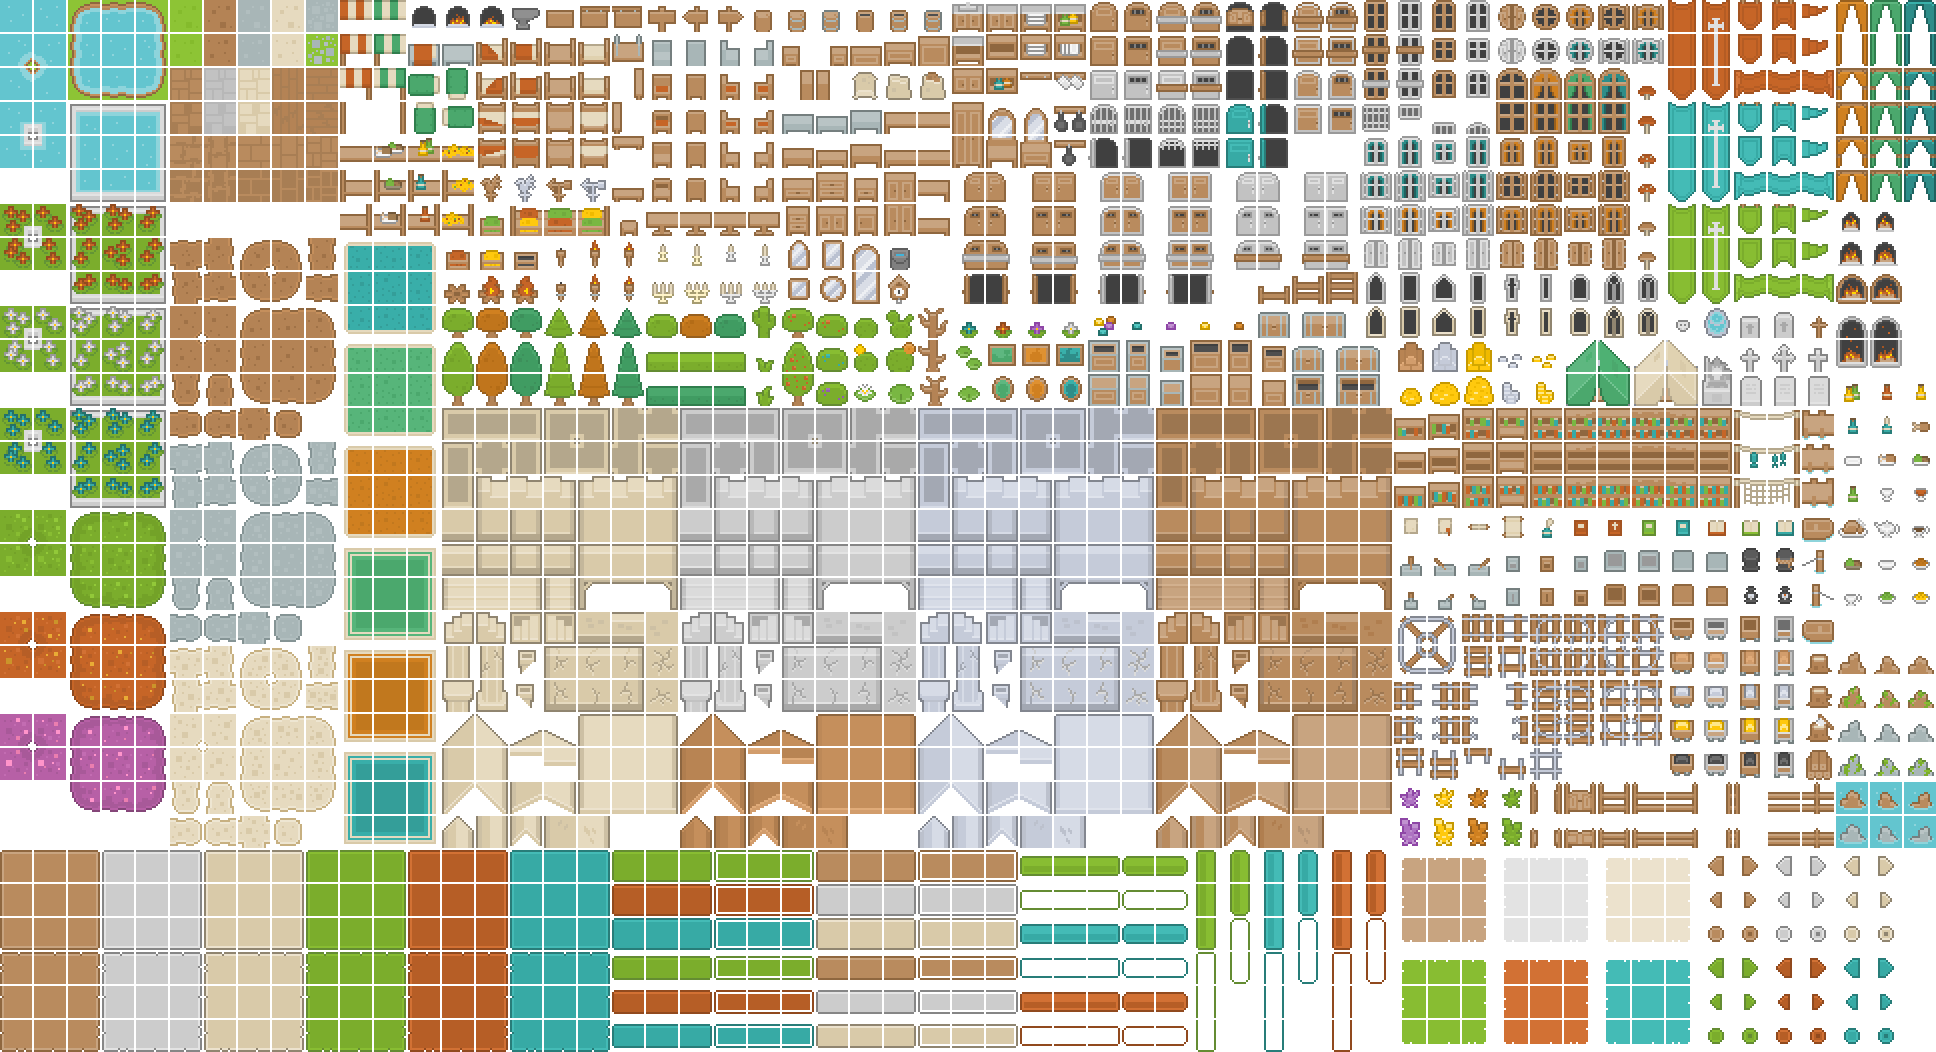
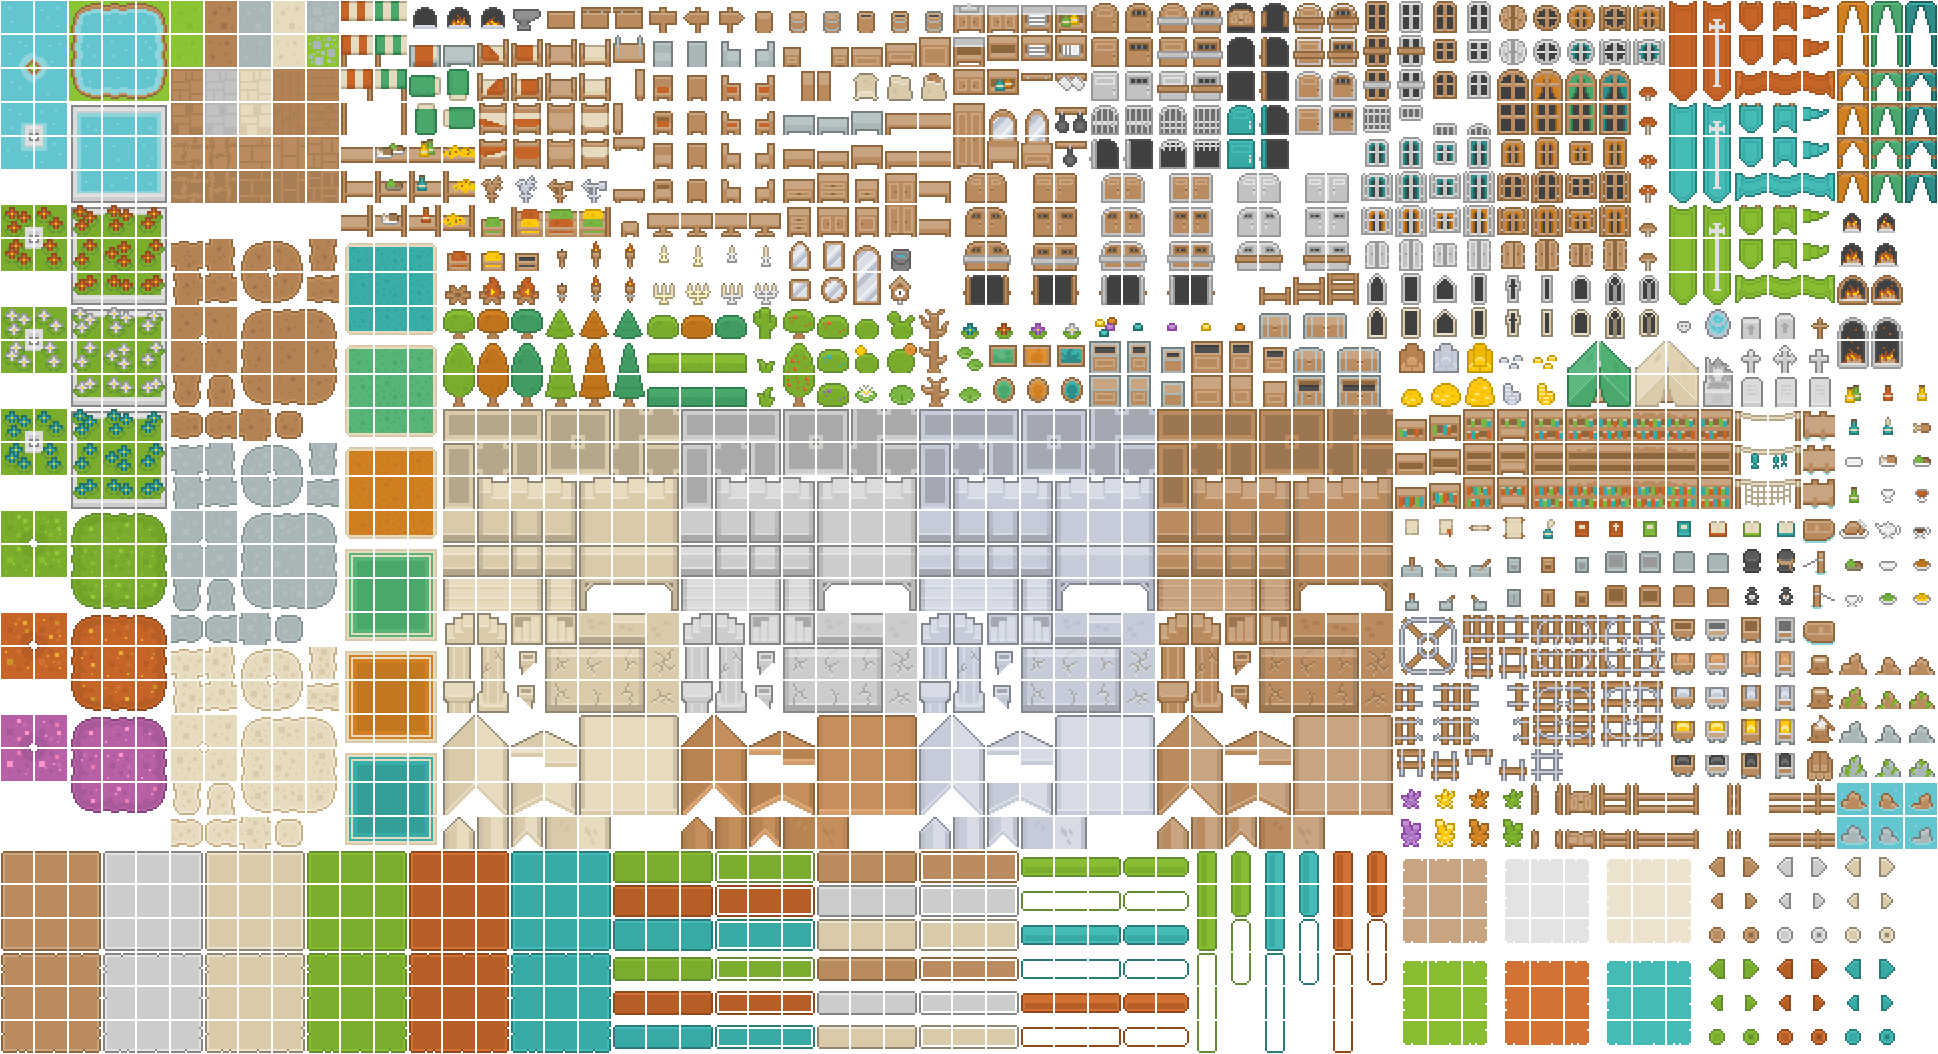
fixed goofy ass tilemap issues

diff --git a/src/scenes/City.js b/src/scenes/City.js
@@ -1,3 +1,4 @@
+//import { Cop } from "../gameobjects/Cop.js";
 import { Player } from "../gameobjects/Player.js";
 import { Bullet } from "../gameobjects/Bullet.js";
 
@@ -5,23 +6,30 @@ export class City extends Phaser.Scene{
     constructor(){
         super('City');
 
+        //---- VARIABLES ----
         //constant for scaling
-        this.MAPSCALE = 2.5;
+        this.MAPSCALE = 3.3;
+        //each tile is 16x16px, w = 17, h = 16
+        this.MAPHEIGHT = 16 * 16 * this.MAPSCALE;
+        this.MAPWIDTH = 16 * 17 * this.MAPSCALE;
     }
 
     preload(){
+        //----- BACKGROUND -----
         this.load.image("urban1", "assets/urban1.png");
         this.load.image("urban2", "assets/urban2.png");
-        this.load.image("player", "assets/Trollface.png");
         this.load.tilemapTiledJSON("city", "assets/basicCity.tmj"); // works
 
+        //------- PLAYER/CHARACTERS -----
         Player.preload(this);
+        //Cop.preload(this);
     }
 
     create(){
         this.last_time = 0; // copied from last project
         this.score = 0;
 
+        //------- BACKGROUND ------
         this.map = this.add.tilemap("city");
         const urban1 = this.map.addTilesetImage("urban1", "urban1");
         const urban2 = this.map.addTilesetImage("urban2", "urban2");
@@ -43,9 +51,12 @@ export class City extends Phaser.Scene{
         cars.setCollisionByExclusion([-1]);
         decoration.setCollisionByExclusion([-1]); // can maybe get rid of the other decoration layer by properly setting up collision with the tiles
         
+        //-------- PLAYER --------
         Player.createAnimations(this);
-        this.player = new Player(this, 300, 100).setDepth(2); // not sure what x and y are yet
-        this.player.setScale(2);
+        this.player = new Player(this, 300, 100).setDepth(4); // not sure what x and y are yet
+        this.player.setScale(3.3);
+        this.player.body.setSize(8, 9); //change hitbox size
+        this.player.setOffset(1.5, 5.5); //change hitbox loc
         // the only layers the player DOES NOT collide with are "ground" and "decoration_noclip"
         this.physics.add.collider(this.player, buildings, (player, tile) => {
            // console.log("building");
@@ -91,8 +102,10 @@ export class City extends Phaser.Scene{
 
         });
 
-        this.cameras.main.startFollow(this.player, true);
-        this.cameras.main.setDeadzone(100,100);
+        //---------- CAMERA STUFF --------
+        this.cameras.main.setBounds(0, 0, this.MAPWIDTH, this.MAPHEIGHT); //prevent camera from showing dead space
+        this.cameras.main.startFollow(this.player, true); //follow player
+        this.cameras.main.setDeadzone(75, 75); //bit of cushion around following the player
         this.cameras.main.setZoom(2);
 
     }

diff --git a/src/scenes/House_1.js b/src/scenes/House_1.js
@@ -1,12 +1,43 @@
+import { Player } from "../gameobjects/Player.js";
+
 export class House_1 extends Phaser.Scene {
+    //apartment in the off-white yellowish brick building
     constructor() {
         super("House_1");
+
+        //----VARIABLES-----
+        this.MAPSCALE = 2; //constant for scaling
+        //each tile is 16x16px, w = 24, h = 12
+        this.MAPHEIGHT = 16 * 12 * this.MAPSCALE;
+        this.MAPWIDTH = 16 * 24 * this.MAPSCALE;
     }
     preload() {
+        //----- BACKGROUND -----
+        this.load.image("urban2", "assets/urban2.png");
+        this.load.image("interior2", "assets/interior2/Tiled_files/Interior.png");
+        this.load.image("indoor", "assets/kennyIndoor_transparent.png");
+        this.load.image("classSet", "assets/class_tilesheet.png");
+        this.load.tilemapTiledJSON("house_1", "assets/apartment.tmj");
 
+        //----- PLAYER/CHARACTERS ------
     }
     create() {
-
+        //------- BACKGROUND ------
+        this.map = this.add.tilemap("house_1");
+        const urban2 = this.map.addTilesetImage("urban2", "urban2"); //1st val is tileset name in tiled, 2nd val is name of loaded image
+        const interior2 = this.map.addTilesetImage("interior2", "interior2");
+        const indoor = this.map.addTilesetImage("indoor", "indoor");
+        const classSet = this.map.addTilesetImage("classSet", "classSet");
+        classSet.setSpacing(0, 1); //classSet has special spacing in tiled. 0 = margin, 1 = spacing
+        var tileset = [urban2, interior2, indoor, classSet]; //combine all the tilesets
+        //layer variables
+        var walls, floor, solidDecor, decoration, tableDecor, door;
+        walls = this.map.createLayer("walls", tileset).setDepth(0).setScale(this.MAPSCALE);
+        floor = this.map.createLayer("floor", tileset).setDepth(0).setScale(this.MAPSCALE);
+        solidDecor = this.map.createLayer("decoration-solid-obj", tileset).setDepth(1).setScale(this.MAPSCALE);
+        decoration = this.map.createLayer("decoration", tileset).setDepth(2).setScale(this.MAPSCALE);
+        tableDecor = this.map.createLayer("table decor", tileset).setDepth(3).setScale(this.MAPSCALE);
+        door = this.map.createLayer("door", tileset).setDepth(3).setScale(this.MAPSCALE);
     }
     update(time) {
 

diff --git a/src/scenes/Player_Lair.js b/src/scenes/Player_Lair.js
@@ -1,0 +1,29 @@
+import { Player } from "../gameobjects/Player.js";
+
+export class Player_Lair extends Phaser.Scene{
+    constructor(){
+        super('Player_Lair');
+
+        //----- VARIABLES ----
+        this.MAPSCALE = 3;
+        //each tile is 16x16px, w = 14, h = 12
+        this.MAPHEIGHT = 16 * 12 * this.MAPSCALE;
+        this.MAPWIDTH = 16 * 14 * this.MAPSCALE;
+    }
+
+    preload(){
+        //------ BACKGROUND -----
+        this.load.image("interior2", "assets/interior2/Tiled_files/Interior.png");
+        this.load.image("indoor", "assets/kennyIndoor_transparent.png");
+        this.load.image("urban1", "assets/urban1.png");
+        this.load.image("urban2", "assets/urban2.png");
+    }
+
+    create(){
+
+    }
+
+    update(){
+
+    }
+}

diff --git a/src/main.js b/src/main.js
@@ -1,6 +1,7 @@
 import { Title_Screen } from './scenes/Title_Screen.js';
 import { EndGame } from './scenes/EndGame.js';
 import { City } from "./scenes/City.js";
+import { Player_Lair } from "./scenes/Player_Lair.js";
 import { House_1 } from './scenes/House_1.js';
 import { House_2 } from './scenes/House_2.js';
 import { House_3 } from './scenes/House_3.js';
@@ -23,9 +24,14 @@ const config = {
         }
     },
     scene: [
-       // Title_Screen,
-        City, House_1, House_2, House_3, House_4,
-        UI,
+        //Title_Screen,
+        //UI,
+        //Player_Lair,
+        //City, 
+        House_1, 
+        House_2, 
+        House_3, 
+        House_4,
         EndGame
     ],
     scale: {

diff --git a/assets/classSet.tsx b/assets/classSet.tsx
@@ -1,4 +1,4 @@
 <?xml version="1.0" encoding="UTF-8"?>
-<tileset version="1.10" tiledversion="1.11.2" name="classSet" tilewidth="16" tileheight="16" spacing="1" tilecount="6893" columns="113">
- <image source="class_tilesheet.png" width="1936" height="1052"/>
+<tileset version="1.10" tiledversion="1.11.2" name="classSet" tilewidth="16" tileheight="16" spacing="1" tilecount="7068" columns="114">
+ <image source="class_tilesheet.png" width="1938" height="1054"/>
 </tileset>
